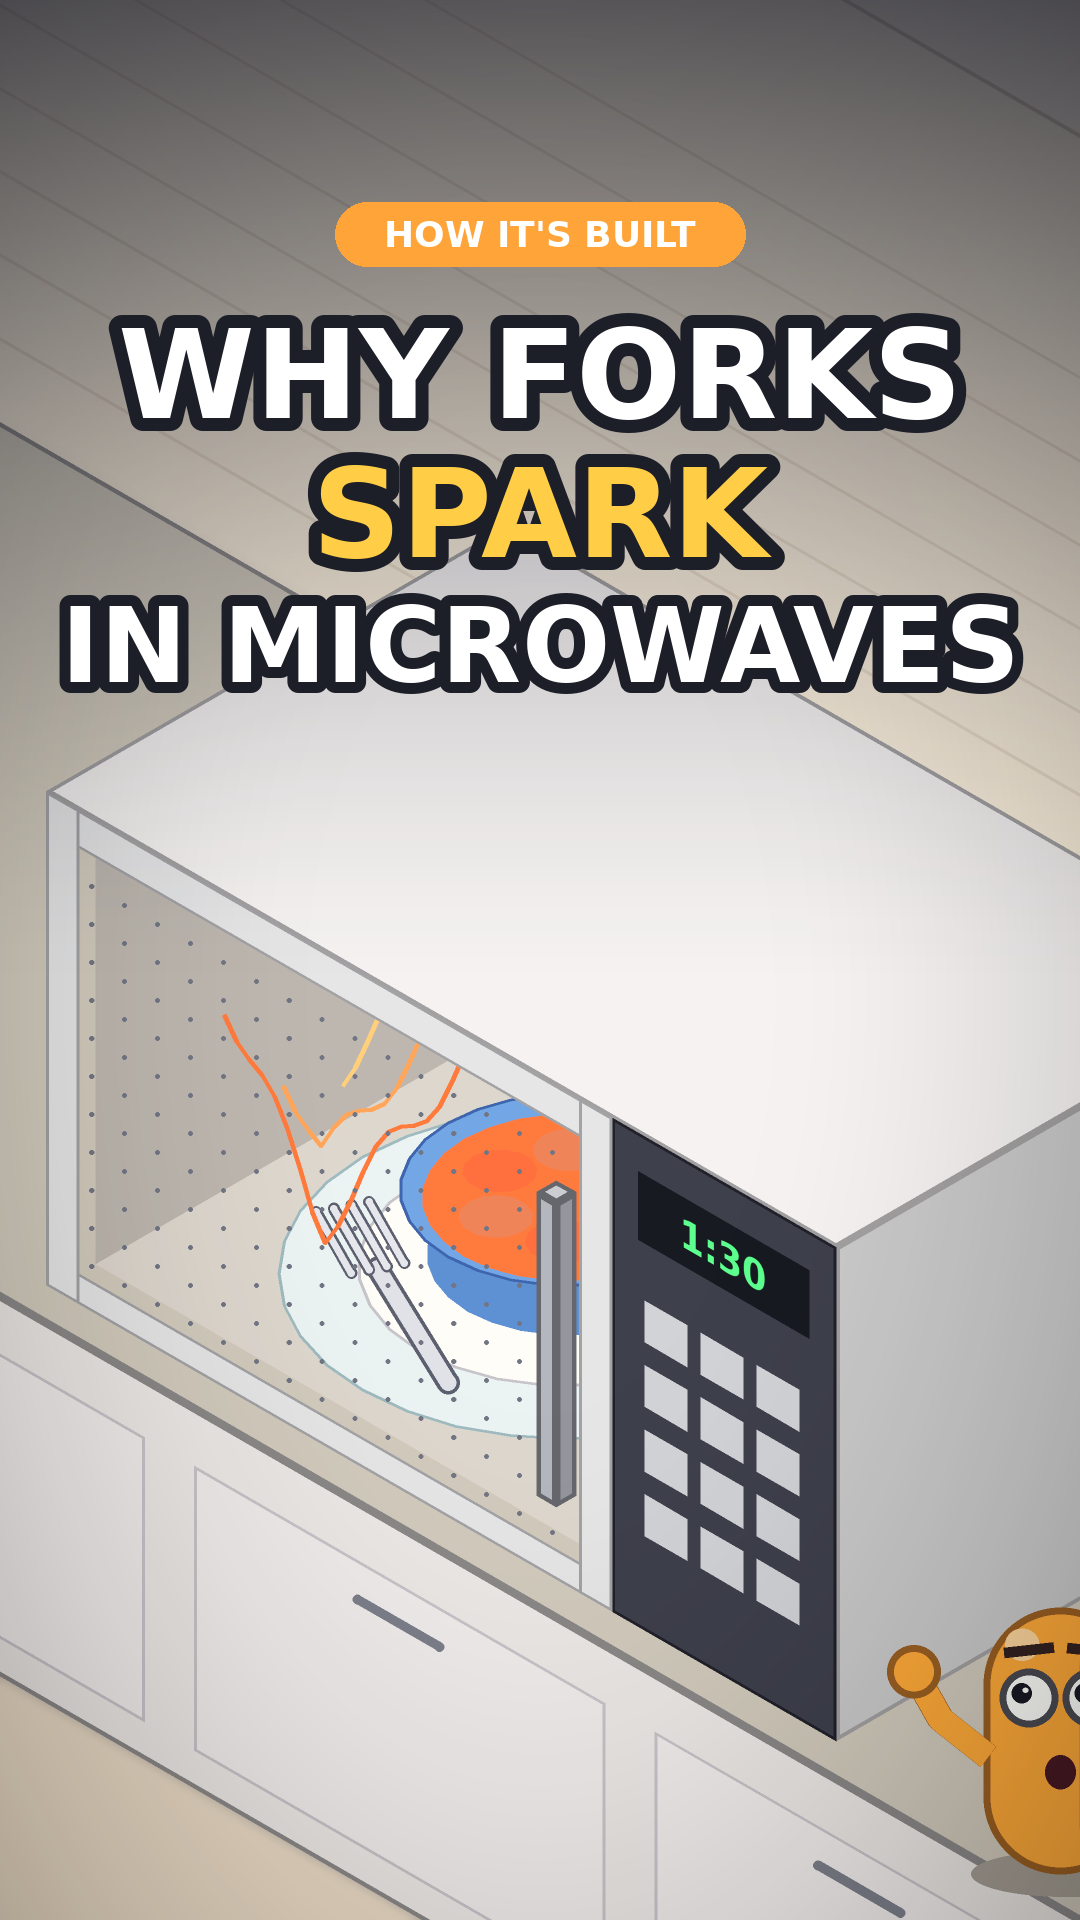
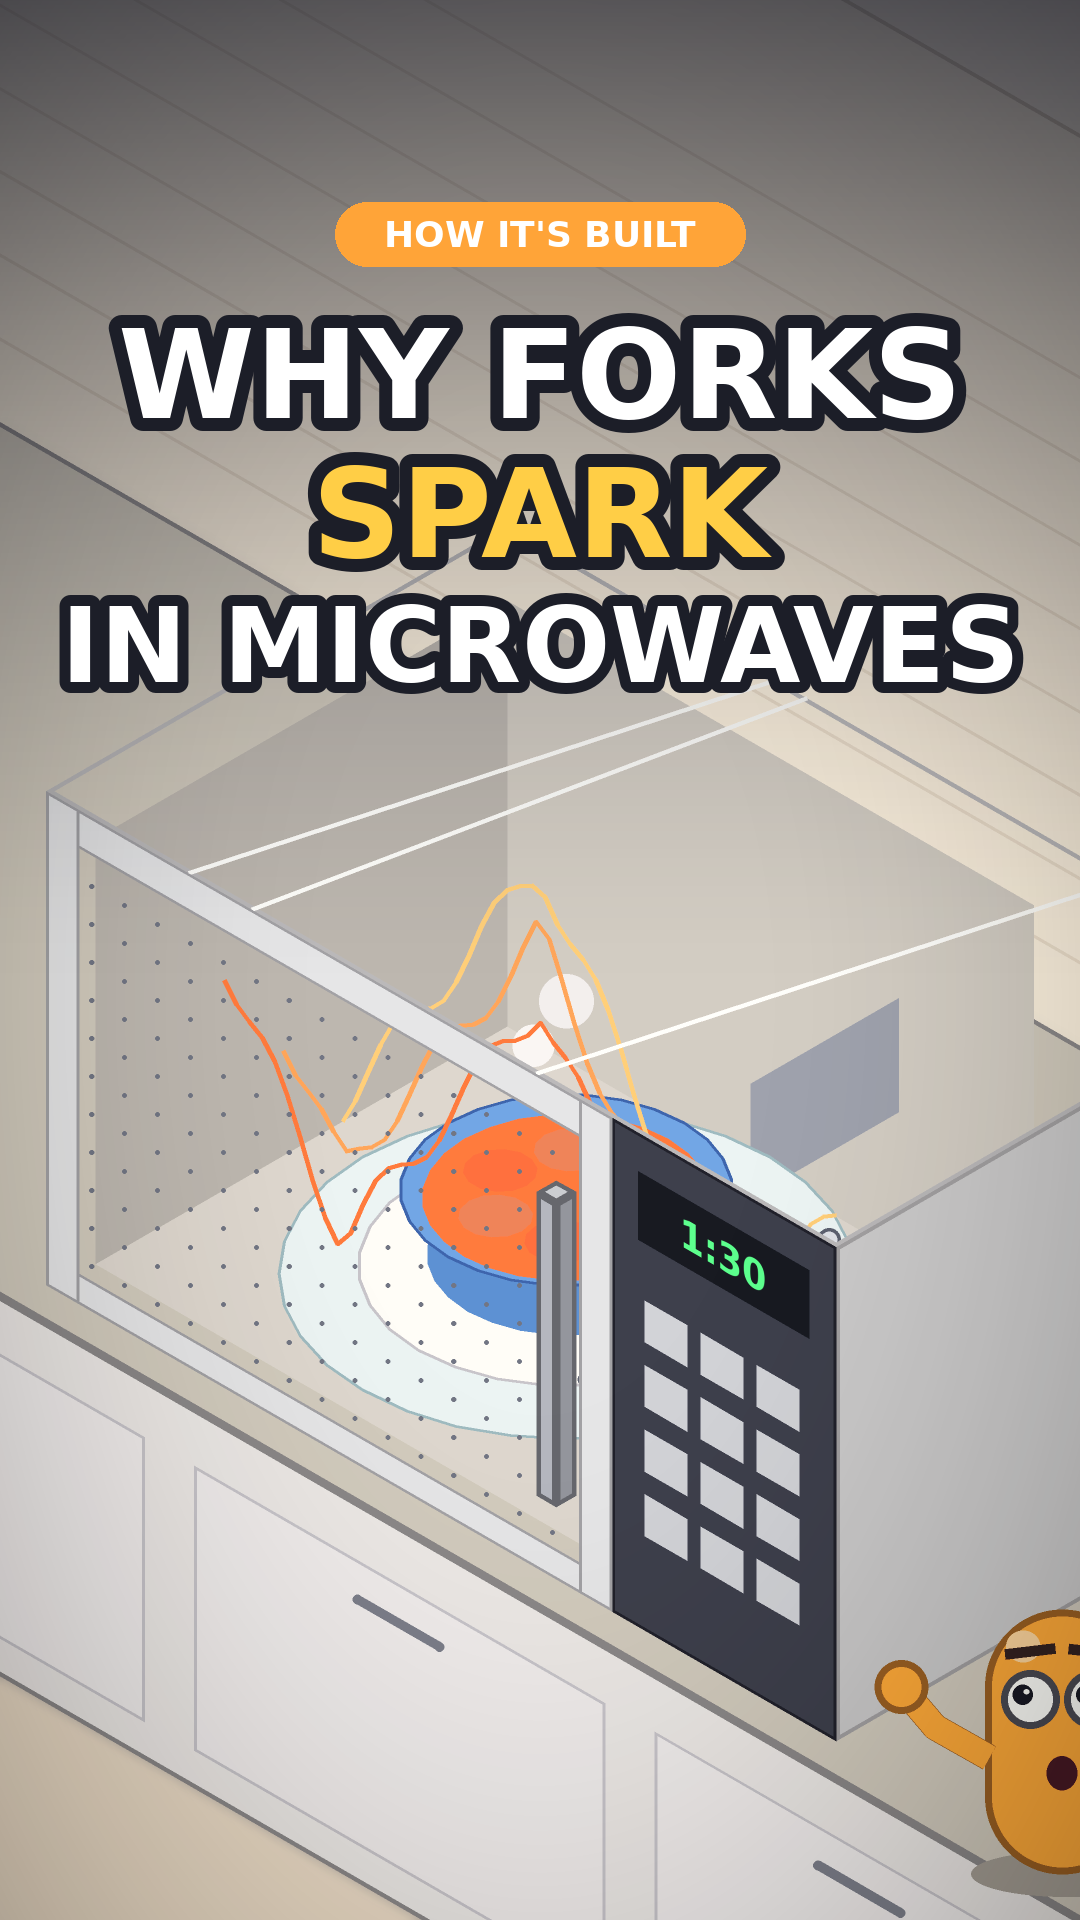
Covers regenerated with new titles (traffic_light, microwave, streaming, self_checkout); rule: 0.2 s cover at the end of every YouTube MP4, IG uses cover.png
Claude-Session: https://claude.ai/code/session_01ACmidbFkZyC3kjivk8YJVW

Changed region(s): [[0.0611, 0.3125, 1.0, 0.7188], [0.7944, 0.8438, 1.0, 0.9375]]

diff --git a/CLAUDE.md b/CLAUDE.md
@@ -75,6 +75,11 @@ Never invent numbers, never present a heuristic as a prediction: say what is **p
 - No GPU (work laptop, Intel Arc) -> Blender path was tested (`blender_render.py`) but parked;
   stay on the Python 2.5D renderer.
 - Deliver each finished MP4 immediately (SendUserFile); commit + push code before long renders.
+- **Thumbnail frame is essential** (owner 2026-11-22): every YouTube MP4 ends with the cover for **0.2 s** (pickable in
+  the Shorts frame picker, almost invisible in the loop). Loop videos are rendered with `end_cover=False`, then
+  `python tools/append_cover.py <slug> --dur 0.2` -> `output/explainers/<slug>_cover.mp4` (YouTube file). Instagram:
+  the plain MP4 + `publishing/<slug>/cover.png` uploaded as the Reel cover. Regenerate the cover
+  (`branding cover <slug>`) whenever the title or the timeline changes.
 - Every approved video gets a release commit `[VID-<idx>-v<ver>] ...` and a row in `publishing/VIDEOS.md`
   (title, commit, date) so any old version can be re-rendered exactly (skill `video-archive`).
 - Handle: `@HowItsBuiltShorts_Official` (name "How It's Built"); same on YouTube, Instagram, TikTok.
@@ -138,6 +143,7 @@ confirmed (>= ~10 videos, consistent). Contradicted rules are downgraded or remo
 Last session: 2026-11-22 (branch `claude/upbeat-hypatia-l9zq43`, not merged yet).
 - **Posted**: card_tap 11-20, elevator 11-21, atm_notes 11-22 (O1/E1 baseline). **Posting now** (owner's choice,
   texts in `publishing/POST_NOW.txt`): chatbot v4, traffic_light v5, microwave v4, streaming v3, maybe self_checkout v3.
+  YouTube files = `<slug>_cover.mp4` (cover 0.2 s at the end); Instagram = plain MP4 + cover.png.
   NOT posted: toilet v1, fridge v1, undersea_cable v4 (to redo after the engine work below).
 - **Next session, in this order** (owner was disappointed - read "2026-11-22 end of session" above first):
   1. `studio` start: numbers for every posted video (first open-loop data: chatbot) -> STATS.md -> Learned rules.
